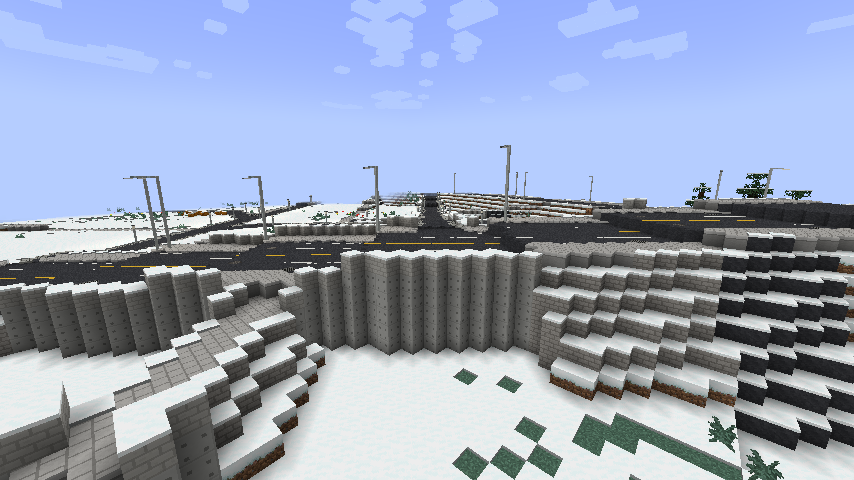
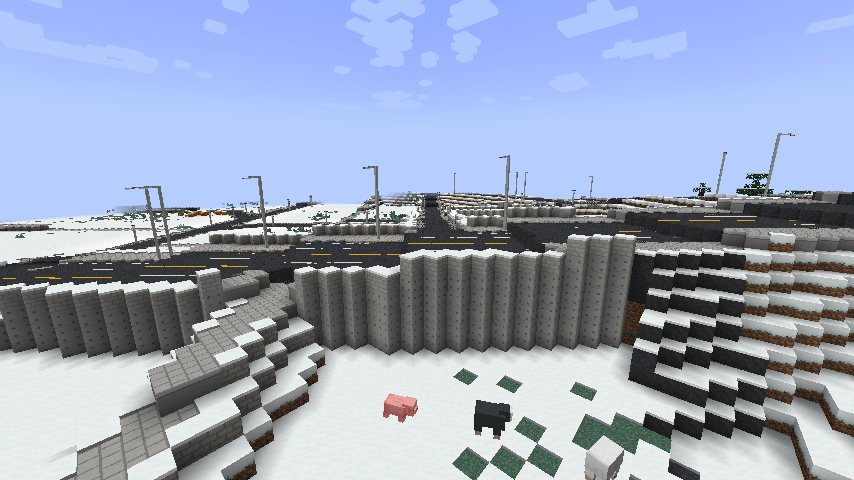
Retaining walls by whole street, junctions within each other's paving share one height, levees rise with ramped bank roads

diff --git a/core/src/main/java/com/mtm/citybuilder/core/chunk/ChunkLayer.java b/core/src/main/java/com/mtm/citybuilder/core/chunk/ChunkLayer.java
@@ -637,7 +637,7 @@ public final class ChunkLayer {
     private record Index(Map<Long, List<Integer>> byChunk, List<StreetSegment> segments, double[] deck, int[][] links,
                          Map<Long, List<double[]>> canals, Map<Long, List<StationPlaza>> plazas,
                          Map<Long, List<Stop>> stops, Map<Long, Double> heights, boolean[][] round,
-                         Map<Long, List<double[]>> banks, double[][][] interior) {
+                         Map<Long, List<double[]>> banks, double[][][] interior, int[] street) {
         /**
          * Whether a column lies on a piece's paving: within half its width of its line and, past an end, only where
          * that end is round (a bend's outside); a square end stops at the end's line.
@@ -1084,12 +1084,42 @@ public final class ChunkLayer {
 
     /**
      * Whether a piece's edges are held by concrete retaining walls (擁壁) where it stands above or below the land
-     * beside it, the land left as it is a block out (else graded to it in a slope): by the piece, {@code retainingWall}
-     * of them.
+     * beside it, the land left as it is a block out (else graded to it in a slope): by the street, the whole run of
+     * pieces continuing one another alike (not a patchwork piece by piece along a bend), {@code retainingWall} of them.
      */
-    private boolean retained(StreetSegment g) {
+    private boolean retained(Index index, int p) {
+        StreetSegment g = index.segments.get(index.street[p]);
         long h = com.mtm.citybuilder.core.noise.Hash.of(0x4E7A11L, Math.round(g.x1() + g.x2()), Math.round(g.z1() + g.z2()));
         return com.mtm.citybuilder.core.noise.Hash.unit(h) < logic.settings().streets.retainingWall;
+    }
+
+    /** Each piece's street: the lowest-numbered piece of the run of pieces continuing one another ({@code links}). */
+    static int[] streets(int[][] links) {
+        int[] root = new int[links.length];
+        for (int p = 0; p < root.length; p++) {
+            root[p] = p;
+        }
+        for (int p = 0; p < links.length; p++) {
+            for (int q : links[p]) {
+                int a = find(root, p);
+                int b = find(root, q);
+                if (a != b) {
+                    root[Math.max(a, b)] = Math.min(a, b);
+                }
+            }
+        }
+        for (int p = 0; p < root.length; p++) {
+            root[p] = find(root, p);
+        }
+        return root;
+    }
+
+    private static int find(int[] root, int p) {
+        while (root[p] != p) {
+            root[p] = root[root[p]];
+            p = root[p];
+        }
+        return p;
     }
 
     /** An embankment's terrace by the water, a block above it: grass, the promenade on it. */
@@ -1167,7 +1197,7 @@ public final class ChunkLayer {
                         } else if (d <= half + VERGE && covered && d - half < outside[c]) {
                             outside[c] = d - half;
                             verge[c] = at;
-                            wall[c] = retained(g);
+                            wall[c] = retained(index, p);
                         }
                     }
                 }
@@ -1315,7 +1345,8 @@ public final class ChunkLayer {
     }
 
     /**
-     * The side streets joining each piece between its ends (a T whose stem ends on the piece's line): {t, x, z} by t,
+     * The side streets joining each piece between its ends (a T whose stem ends on the piece's line or within its
+     * paving, a street crossing it at a junction of its own): {t, x, z} by t,
      * null for a piece none joins. Footpaths, steps and bridges neither have nor make them.
      */
     static double[][][] interior(List<StreetSegment> segments, Map<Long, List<Integer>> byChunk) {
@@ -1344,7 +1375,9 @@ public final class ChunkLayer {
                     if (t <= margin || t >= 1 - margin) {
                         continue;
                     }
-                    if (Math.hypot(g.x1() + dx * t - end[0], g.z1() + dz * t - end[1]) > 0.75) {
+                    // On its line or within its paving: a street crossing it there is joined to it, whether or not its
+                    // junction lies exactly on the line
+                    if (Math.hypot(g.x1() + dx * t - end[0], g.z1() + dz * t - end[1]) > Math.max(0.75, 0.5 * g.width())) {
                         continue;
                     }
                     List<double[]> list = found.computeIfAbsent(p, k -> new ArrayList<>());
@@ -1397,6 +1430,8 @@ public final class ChunkLayer {
         }
         Map<Long, double[]> nodes = new HashMap<>();
         Map<Long, List<double[]>> links = new HashMap<>();
+        // Half the widest street meeting at each junction
+        Map<Long, Double> reach = new HashMap<>();
         for (int p = 0; p < index.segments.size(); p++) {
             StreetSegment g = index.segments.get(p);
             if (!ramped(g)) {
@@ -1422,8 +1457,38 @@ public final class ChunkLayer {
                 double length = Math.hypot(v[0] - u[0], v[1] - u[1]);
                 nodes.putIfAbsent(a, u);
                 nodes.putIfAbsent(b, v);
+                reach.merge(a, 0.5 * g.width(), Math::max);
+                reach.merge(b, 0.5 * g.width(), Math::max);
                 links.computeIfAbsent(a, q -> new ArrayList<>()).add(new double[]{b, length});
                 links.computeIfAbsent(b, q -> new ArrayList<>()).add(new double[]{a, length});
+            }
+        }
+        // Junctions within one another's paving though no piece joins them (a street ending beside a junction rather
+        // than on it, a bank road passing a bridge's end) are one junction to the ramps: else the paving there is laid
+        // at two unrelated heights, a bank road's crest through a bridge approach's ramp
+        Map<Long, List<Long>> buckets = new HashMap<>();
+        for (Map.Entry<Long, double[]> n : nodes.entrySet()) {
+            buckets.computeIfAbsent(key(Math.floorDiv((int) Math.floor(n.getValue()[0]), 16),
+                    Math.floorDiv((int) Math.floor(n.getValue()[1]), 16)), q -> new ArrayList<>()).add(n.getKey());
+        }
+        for (Map.Entry<Long, double[]> n : nodes.entrySet()) {
+            double[] u = n.getValue();
+            int bx = Math.floorDiv((int) Math.floor(u[0]), 16);
+            int bz = Math.floorDiv((int) Math.floor(u[1]), 16);
+            for (int ix = bx - 1; ix <= bx + 1; ix++) {
+                for (int iz = bz - 1; iz <= bz + 1; iz++) {
+                    for (long other : buckets.getOrDefault(key(ix, iz), List.of())) {
+                        if (other <= n.getKey()) {
+                            continue;
+                        }
+                        double[] v = nodes.get(other);
+                        double d = Math.hypot(v[0] - u[0], v[1] - u[1]);
+                        if (d < Math.max(reach.get(n.getKey()), reach.get(other))) {
+                            links.computeIfAbsent(n.getKey(), q -> new ArrayList<>()).add(new double[]{other, d});
+                            links.computeIfAbsent(other, q -> new ArrayList<>()).add(new double[]{n.getKey(), d});
+                        }
+                    }
+                }
             }
         }
         // {height, node, lift over the node's ground}, the highest first. What is carried along the streets is the
@@ -1749,7 +1814,7 @@ public final class ChunkLayer {
         }
         Map<Long, Double> heights = new java.util.concurrent.ConcurrentHashMap<>();
         Index index = new Index(byChunk, segments, deck, links, canals, plazas, stops, heights, round(segments), banks,
-                interior(segments, byChunk));
+                interior(segments, byChunk), streets(links));
         // A street leaving a bridge starts at its deck
         for (int p = 0; p < segments.size(); p++) {
             StreetSegment g = segments.get(p);
@@ -1759,7 +1824,67 @@ public final class ChunkLayer {
             }
         }
         ramps(index);
+        raiseBanks(index);
         return index;
+    }
+
+    /**
+     * Where a ramp lifts a bank road above its embankment's crest (up to a bridge's end), the embankment raised with
+     * it (a levee built up round a bridge's end): each bank point's crest no lower than the streets' level there, so
+     * the revetment and back slope rise with the road instead of dropping off its edge.
+     */
+    private void raiseBanks(Index index) {
+        java.util.Set<double[]> done = java.util.Collections.newSetFromMap(new java.util.IdentityHashMap<>());
+        for (List<double[]> list : index.banks.values()) {
+            for (double[] b : list) {
+                if (!done.add(b)) {
+                    continue;
+                }
+                for (int e = 0; e < 2; e++) {
+                    double level = streetLevel(index, b[2 * e], b[2 * e + 1]);
+                    if (level > b[4 + e]) {
+                        b[4 + e] = level;
+                    }
+                }
+            }
+        }
+    }
+
+    /** The level of the street piece nearest a point within its paving (not a bridge or footpath), or NaN. */
+    private double streetLevel(Index index, double x, double z) {
+        List<Integer> near = index.byChunk.get(key(Math.floorDiv((int) Math.floor(x), 16), Math.floorDiv((int) Math.floor(z), 16)));
+        if (near == null) {
+            return Double.NaN;
+        }
+        double best = Double.POSITIVE_INFINITY;
+        double level = Double.NaN;
+        for (int p : near) {
+            StreetSegment g = index.segments.get(p);
+            if (!ramped(g)) {
+                continue;
+            }
+            double dx = g.x2() - g.x1();
+            double dz = g.z2() - g.z1();
+            double t = Math.max(0, Math.min(1, ((x - g.x1()) * dx + (z - g.z1()) * dz) / Math.max(1e-9, dx * dx + dz * dz)));
+            double d = Math.hypot(g.x1() + dx * t - x, g.z1() + dz * t - z);
+            if (d > 0.5 * g.width() || d >= best) {
+                continue;
+            }
+            best = d;
+            double h1 = nodeHeight(index, g.x1(), g.z1());
+            double h2 = nodeHeight(index, g.x2(), g.z2());
+            double[][] inner = index.interior()[p];
+            if (inner == null) {
+                level = h1 + (h2 - h1) * t;
+            } else {
+                double[] hs = new double[inner.length];
+                for (int k = 0; k < inner.length; k++) {
+                    hs[k] = nodeHeight(index, inner[k][1], inner[k][2]);
+                }
+                level = along(t, h1, h2, inner, hs);
+            }
+        }
+        return level;
     }
 
     /**

diff --git a/CLAUDE.md b/CLAUDE.md
@@ -108,7 +108,7 @@ gradlew :fabric:runClient / :forge:runClient    # 开发环境客户端（未验
 - **游戏内城市地图**（2026-11-22，用户试玩时要看位置和规划状态）：默认按 **K**（按键设置里"City Builder"类的"城市地图"）或命令 `/citymap` 打开。拖动平移，滚轮或 +/- 以光标为中心缩放（每像素 1/8 到 16 格），左键单击查询该点（右下角列出坐标、用地和强度、所属城镇和等级、街道是否已规划、形态和功能分区、最近的街道等级/年代/宽度/结构、地块和建筑的种类层数），并把 `x z` 复制到剪贴板；C 回到玩家，L 显示或隐藏图例（开始时隐藏），R 重画，再按 K 或 Esc 关。画法：每像素 2 格及以上显示地块和建筑占地（颜色同 `BuildingMap`，越高越深），更远显示功能分区（半透明，颜色同 `-Players=districts`）；街道按等级上色（林荫大道紫红、老城干道黑、新城干道深蓝、次干道蓝、支路灰、小巷浅灰、古道褐、游步道绿，桥橙、暗渠青、台阶品红），水渠、护城河、河湖海、城际道路（只画已寻路的）、城内铁路（城际线黑、城市线紫，地下虚线）、车站用地、站前广场（每像素 4 格以内逐格画）、锚点（城、御所、寺社红，门黄，中心白圆，车站白方）。实现：服务端按瓦片画（core 的 `debug.PlanTile`：128 像素见方，每像素 1/2/4/8/16 格；`PlanTile.probe` 是查询），在两条低优先级线程（`map.CityMapServer`）上画成 PNG 发给客户端，不卡服务端主线程、不规划任何东西：街道没规划好的城只画建成区、没寻路的城际道路不画，这时瓦片标为不完整，客户端 12 秒后重新要；只画离玩家 4 km 以内的瓦片（`RANGE`）；种子和规划不下发，只发图和文字。网络是一个频道 `citybuilder:map`（`map.CityMapNet`，首字节是消息类型），包用原版的自定义载荷，Fabric 用 `ServerPlayNetworking`/`ClientPlayNetworking` 收，Forge 用 `NetworkRegistry.newEventChannel`（两边缺了都接受）；客户端在 `client.map.CityMapClient`（瓦片纹理缓存最多 384 张，在途最多 6 个）和 `CityMapScreen`（缺的瓦片先用缓存里更粗的放大顶上）。用例 `cases/citymap.spec.mjs`（要客户端）用命令打开、截分区图、地块图和查询，截图 `docs/screens/citymap-*.png`。Forge 只编译过，没在游戏里跑过
 - **后台规划**（`world.CityPlanner`，2026-11-20）：每个服务器一条低优先级守护线程；`MinecraftServerMixin` 每 100 tick 把每个玩家的位置交给它，它规划建成区可能伸到玩家 2.5 km 以内的城（近的先）。之后把窗口碰到玩家 2.5 km 方框的城际道路都寻路并按区块建索引（`ChunkLayer.prepareRoads`，2026-11-21），区块生成时直接取用。区块生成线程遇到没规划好的城仍然等它（玩家跑过规划线程、传送时）
 - **出生点、原版结构、城际道路与城的衔接**（2026-11-22）：新世界的出生点移到最近的城市或大都市中心（`world.CitySpawn`，`InitialSpawnMixin` 挂在 `MinecraftServer.setInitialSpawn` 末尾，`general.spawnInCity`、`spawnSearch`）；城镇用地（强度 > 0）和机场所在的区块不开始任何原版结构（`StructureStartsMixin` 取消 `ChunkGenerator.createStructures`，经 `StructureManagerAccessor` 取服务端世界）；城际道路在城里只有一个负责方：街道层（`StreetLayer.oldRoads`）在建成区上、以及前后 500 m（`RoadChunks.ENCLOSED`）内都有本城建成区的路段（城里的河、河岸、公园）铺古道和桥，城边只有一侧是城的桥留给 `RoadChunks`；`RoadChunks` 在路线中心线上有任何城的古道（`ChunkLayer.oldRoad`）的地方整个断面都不铺（以前两边各铺一座、高度不同，在河上交叉）。城里的街道桥两边有 `concrete_parapet`（`ChunkLayer.railing`）。街道的端头只在弯道外侧（端点处相邻两段方向之间的空隙超过 180°）保持圆形，T 字路口、尽头路、多路交会都是方头（`ChunkLayer.round`）；路面下两格铺同类的整块（沥青或人行道砖），高差的台阶侧面是路面；另一条街的车行道穿过干道人行道或中央分隔带处铺下沉沥青。大城市和城市的后排地块开阔的比例再乘 `backOpenCity` 0.5，没有小巷和旗竿通道的仍然建房（经路地），不留成院子
-- **护岸**（2026-11-22，用户：城市相对河流太平，日本的河有高护岸、建筑退后）：宽水面边的沿河道路（`StreetLayer.riversideRuns`）在堤顶上，堤顶 = 水面 + `leveeHeight` 5（不低于地面）；`Embankment` 的每个点带堤顶、朝陆地的法向、城内地面、水面，`road`、`land`（向陆地伸多远）。断面由 `ChunkLayer.bankProfile` 给出、`CityChunks.bank` 铺：从水起，高出水面一格的河川敷（草、游步道在上面）→ 石砖护岸升到堤顶 → 堤顶道路 → 1:`leveeSlope` 2 的草坡下到城内地面 → 堤脚 `leveeRoad` 5 宽的沥青路（只铺面、不是路网里的街）；堤顶比城内高不到 1 格时没有坡和堤脚路。接到堤顶的街做成坡道：区块层从堤顶上的路口沿街网（不经台阶、游步道、桥）往外按 1:`leveeRamp` 12 抬高路口，直到落到地面（`ChunkLayer.ramps`），坡道两侧的堤坡和堤脚路按 1:1 从坡道放下来。街桥（2026-11-22，用户：桥和两岸路网可以抬高，日本城里的道路本来就高低不齐，高的路用护坡）：桥面 = 较高的岸（或堤顶）+ 1 + 桥长 × `bridgeRise` 0.04（最多 `bridgeRiseMax` 5）；桥端的路口也是坡道的起点（只在桥面比桥端地面高不超过 `bridgeRampMax` 10 时，否则像高架一样只有最后一段爬升）；沿街网传下去的是"比本路口地面高多少"，每格减 1/12，所以地势往下走时坡道也会在 抬高量 × 12 格内消失，不会把高度带到低地上（曾因此把一条街抬到 y 170）；T 字路口的支路端点作为干路的中间点（`ChunkLayer.interior`/`along`：一段路的高度经过它中间接进来的支路口，分段直线），两条路在路口高度一致；街边坡地 `VERGE` 8 格，填方两格及以上的 1:1 坡面用 `stone_ashlar`（間知ブロック的护坡，`CityChunks.verge`），一格的仍是土和草；按路段（`ChunkLayer.retained`，`retainingWall` 0.5 的路段）改用垂直的混凝土挡土墙（擁壁，`concrete_exposed`）：路比旁边的地高或低两格以上时，只在紧贴路边的一列从地面砌到路面（或从路面砌到地面），外面的地不动，高差三格以上墙顶加一层 `concrete_block`（`Grades.wall`，用户 2026-11-22）。坡道的起点（堤顶或桥面）比它所在路口的地面高出 `bridgeRampMax` 以上时不起坡（陡岸上的堤顶、山谷上的桥），桥端在堤后时桥面从堤顶量起。用例 `cases/bridges.spec.mjs`（要客户端）找离城下町中心最近的干道桥和次干道桥，截桥面、两岸和引道（`bridge-*.png`），打印引道路面高度；`BridgeEndsTest` 检查桥周围的街不比地面高出 `bridgeRampMax` + 8 以上地块不进 `Embankment.covers` 的范围（`TownPlots` 按 64 格网格索引），所以建筑退到堤脚路以外。沿河道路的节点高度取堤顶，桥面不低于两端附近的堤顶 + 1，从桥端出来的街从桥面高度起；规划层判断桥从游步道上方跨过时也按堤顶和河川敷的高度算（`Crossings.ground`）。用例 `cases/embankment.spec.mjs`（带客户端时截 `embankment-*.png`）
+- **护岸**（2026-11-22，用户：城市相对河流太平，日本的河有高护岸、建筑退后）：宽水面边的沿河道路（`StreetLayer.riversideRuns`）在堤顶上，堤顶 = 水面 + `leveeHeight` 5（不低于地面）；`Embankment` 的每个点带堤顶、朝陆地的法向、城内地面、水面，`road`、`land`（向陆地伸多远）。断面由 `ChunkLayer.bankProfile` 给出、`CityChunks.bank` 铺：从水起，高出水面一格的河川敷（草、游步道在上面）→ 石砖护岸升到堤顶 → 堤顶道路 → 1:`leveeSlope` 2 的草坡下到城内地面 → 堤脚 `leveeRoad` 5 宽的沥青路（只铺面、不是路网里的街）；堤顶比城内高不到 1 格时没有坡和堤脚路。接到堤顶的街做成坡道：区块层从堤顶上的路口沿街网（不经台阶、游步道、桥）往外按 1:`leveeRamp` 12 抬高路口，直到落到地面（`ChunkLayer.ramps`），坡道两侧的堤坡和堤脚路按 1:1 从坡道放下来。街桥（2026-11-22，用户：桥和两岸路网可以抬高，日本城里的道路本来就高低不齐，高的路用护坡）：桥面 = 较高的岸（或堤顶）+ 1 + 桥长 × `bridgeRise` 0.04（最多 `bridgeRiseMax` 5）；桥端的路口也是坡道的起点（只在桥面比桥端地面高不超过 `bridgeRampMax` 10 时，否则像高架一样只有最后一段爬升）；沿街网传下去的是"比本路口地面高多少"，每格减 1/12，所以地势往下走时坡道也会在 抬高量 × 12 格内消失，不会把高度带到低地上（曾因此把一条街抬到 y 170）；T 字路口的支路端点作为干路的中间点（`ChunkLayer.interior`/`along`：一段路的高度经过它中间接进来的支路口，分段直线），两条路在路口高度一致；街边坡地 `VERGE` 8 格，填方两格及以上的 1:1 坡面用 `stone_ashlar`（間知ブロック的护坡，`CityChunks.verge`），一格的仍是土和草；按整条街（相互延续的路段算一条，`ChunkLayer.streets`；`ChunkLayer.retained`，`retainingWall` 0.5 的街）改用垂直的混凝土挡土墙（擁壁，`concrete_exposed`）：路比旁边的地高或低两格以上时，只在紧贴路边的一列从地面砌到路面（或从路面砌到地面），外面的地不动，高差三格以上墙顶加一层 `concrete_block`（`Grades.wall`，用户 2026-11-22）。落在另一条路路面内的路口（不在中心线上的十字、T 字，桥头旁边经过的堤顶道路）在坡道和高度里算同一个路口（`interior` 的容差是路宽一半，`ramps` 把彼此在对方路面内的路口连起来），否则两条路在同一片路面上各按各的高度、混成台阶；堤顶道路被坡道抬高时堤（护岸、背坡）跟着抬高（`raiseBanks`）。坡道的起点（堤顶或桥面）比它所在路口的地面高出 `bridgeRampMax` 以上时不起坡（陡岸上的堤顶、山谷上的桥），桥端在堤后时桥面从堤顶量起。用例 `cases/bridges.spec.mjs`（要客户端）找离城下町中心最近的干道桥和次干道桥，截桥面、两岸和引道（`bridge-*.png`），打印引道路面高度；`BridgeEndsTest` 检查桥周围的街不比地面高出 `bridgeRampMax` + 8 以上地块不进 `Embankment.covers` 的范围（`TownPlots` 按 64 格网格索引），所以建筑退到堤脚路以外。沿河道路的节点高度取堤顶，桥面不低于两端附近的堤顶 + 1，从桥端出来的街从桥面高度起；规划层判断桥从游步道上方跨过时也按堤顶和河川敷的高度算（`Crossings.ground`）。用例 `cases/embankment.spec.mjs`（带客户端时截 `embankment-*.png`）
 - 冒烟测试实测（2026-11-20）：服务器 47 秒启动；在种子 12345 的城下町中心强制加载 8 × 8 区块，第一次规划这座城让主线程卡住 53 秒（"Can't keep up! 52899ms"），之后相邻区块几秒内生成；中心 64 个区块铺了沥青 2879、白线 955、黄线 399、人行道砖 1804 块，平地上的路面都在同一高度（y 66）。没有报错（这里卡主线程的是 `forceload` 命令本身同步加载区块）
 
 ## 语言
